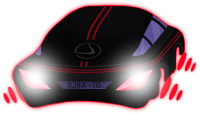
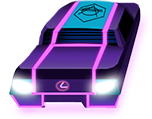
New third car, no particle editor!

diff --git a/ts/States/Menu.ts b/ts/States/Menu.ts
@@ -1,6 +1,5 @@
 import 'phaser-ce';
 
-import Test from './Test';
 import TextButton from '../GameObjects/Interactable/Paralax/UI/TextButton';
 import SettingPopup from '../GameObjects/Interactable/Paralax/UI/SettingPopup';
 import LevelSelect from '../GameObjects/Interactable/Paralax/UI/LevelSelect/LevelSelect';
@@ -38,9 +37,6 @@ export default class Menu extends Phaser.State
     /** The hex screen */
     private _hexViewer: Viewer;
 
-    /** The particle emitter for the menu particles */
-    private _worldEmitter: Phaser.Particles.Arcade.Emitter;
-
     constructor()
     {
         super();
@@ -61,10 +57,6 @@ export default class Menu extends Phaser.State
 
         /* Create the background sprite */
         this._backgroundSprite = this.game.add.sprite(0, 0, Atlases.INTERFACE, 'bg');
-
-        /* Create the world emitter */
-        this._worldEmitter = this.createWorldEmitter();
-        this.add.existing(this._worldEmitter);
 
         /* Create the logo sprite */
         this._logoSprite = this.game.add.sprite(0, 0, Atlases.INTERFACE, AtlasImages.LOGO);
@@ -116,13 +108,6 @@ export default class Menu extends Phaser.State
         /* Creating the play button */
         let playButton: TextButton = new TextButton(this.game, 0, 0, '', 40, 'UserInterface_Menu_PlayButton', this.showLevelSelect, this);
         group.addChild(playButton);
-
-        /* Creating the test button */
-        let testButton: TextButton = new TextButton(this.game, 0, 300, 'particle editor', 40, AtlasImages.MENU_BUTTON, () => {
-            this.state.start(Test.Name);
-        }, this);
-        testButton.scale.set(.5);
-        group.addChild(testButton);
 
         /* Creating the settings button */
         let settingButton: TextButton = new TextButton(this.game, -135, 180, '', 40, 'UserInterface_Menu_Options', () => {
@@ -184,30 +169,6 @@ export default class Menu extends Phaser.State
         this.showAMenu(this._levelSelect);
     }
 
-    /** Create the emitter in the main menu */
-    private createWorldEmitter(): Phaser.Particles.Arcade.Emitter
-    {
-        /* Creating the emitter */
-        let emitter: Phaser.Particles.Arcade.Emitter = new Phaser.Particles.Arcade.Emitter(this.game, 0, 0, 50);
-
-        /* Setting its default values */
-        emitter.makeParticles(Atlases.INTERFACE, 'test_particle');
-        emitter.setXSpeed(-10, 10);
-        emitter.setYSpeed(0, -100);
-        emitter.setRotation(0, 0);
-        emitter.setAlpha(-1, 1, 2000);
-        emitter.setScale(0, .5, 0, .5, 4000);
-
-        emitter.gravity.y = -30;
-        emitter.width = 740;
-
-        /* Starting it */
-        emitter.start(false, 10000, 400);
-
-        /* And returning it */
-        return emitter;
-    }
-
     /* Resize all the menus */
     public resize(): void
     {
@@ -233,10 +194,6 @@ export default class Menu extends Phaser.State
         /* Resizing the logo sprite */
         this._logoSprite.position.set(this.game.width / 2, this.game.height * 0.25);
         this._logoSprite.scale.set(vmin / GAME_WIDTH);
-
-        /* Resizing the word emitter */
-        this._worldEmitter.position.set(this.game.width / 2, this.game.height);
-        this._worldEmitter.width = this.game.width;
 
         /* Offsetting the height of a bit */
         vmin = Math.min(this.game.height * .6, this.game.width);
@@ -290,10 +247,6 @@ export default class Menu extends Phaser.State
         /* Destroy the hex viewer */
         if (this._hexViewer) { this._hexViewer.destroy(); }
         this._hexViewer = null;
-
-        /* Destoy the world emitter */
-        if (this._worldEmitter) { this._worldEmitter.destroy(); }
-        this._worldEmitter = null;
 
         /* Stop the music */
         SoundManager.getInstance().stop(Sounds.UI_MENU_MUSIC);
